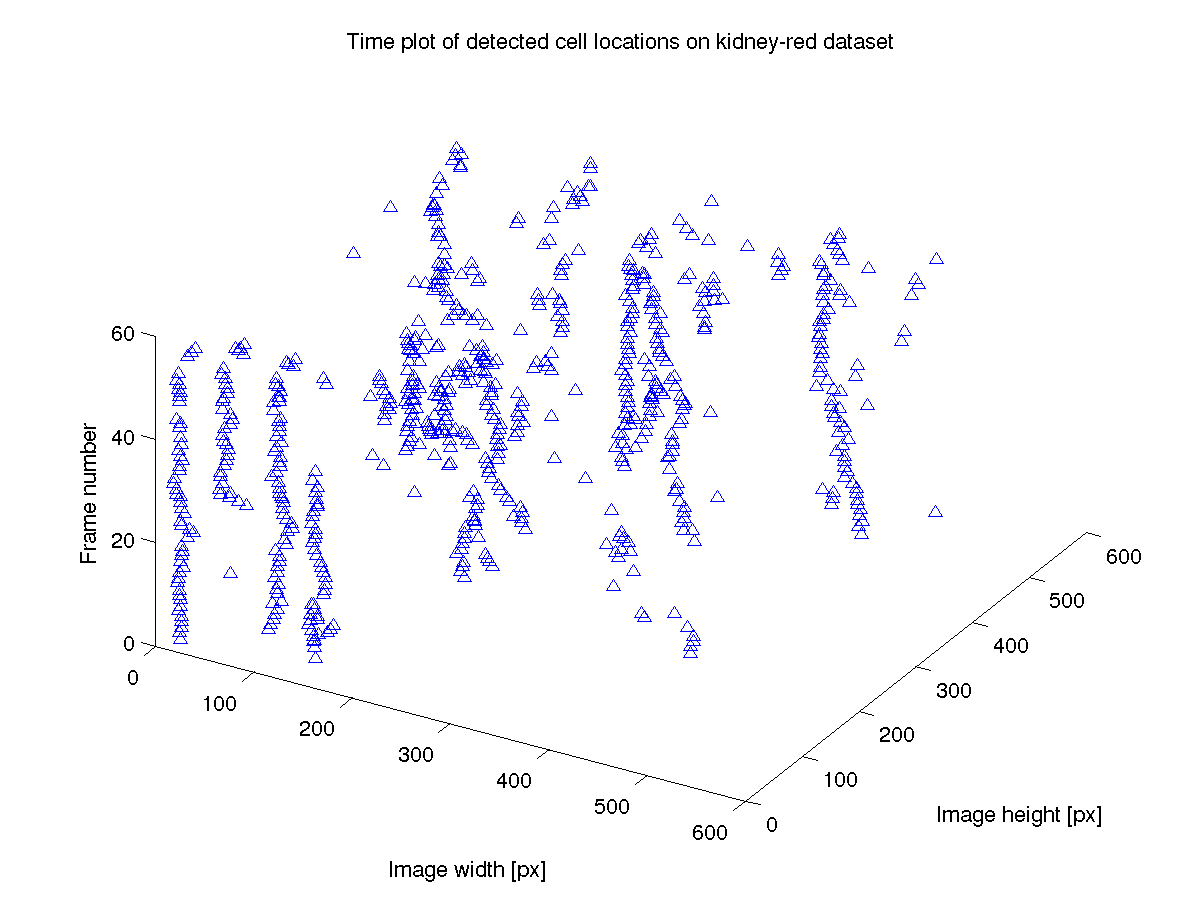
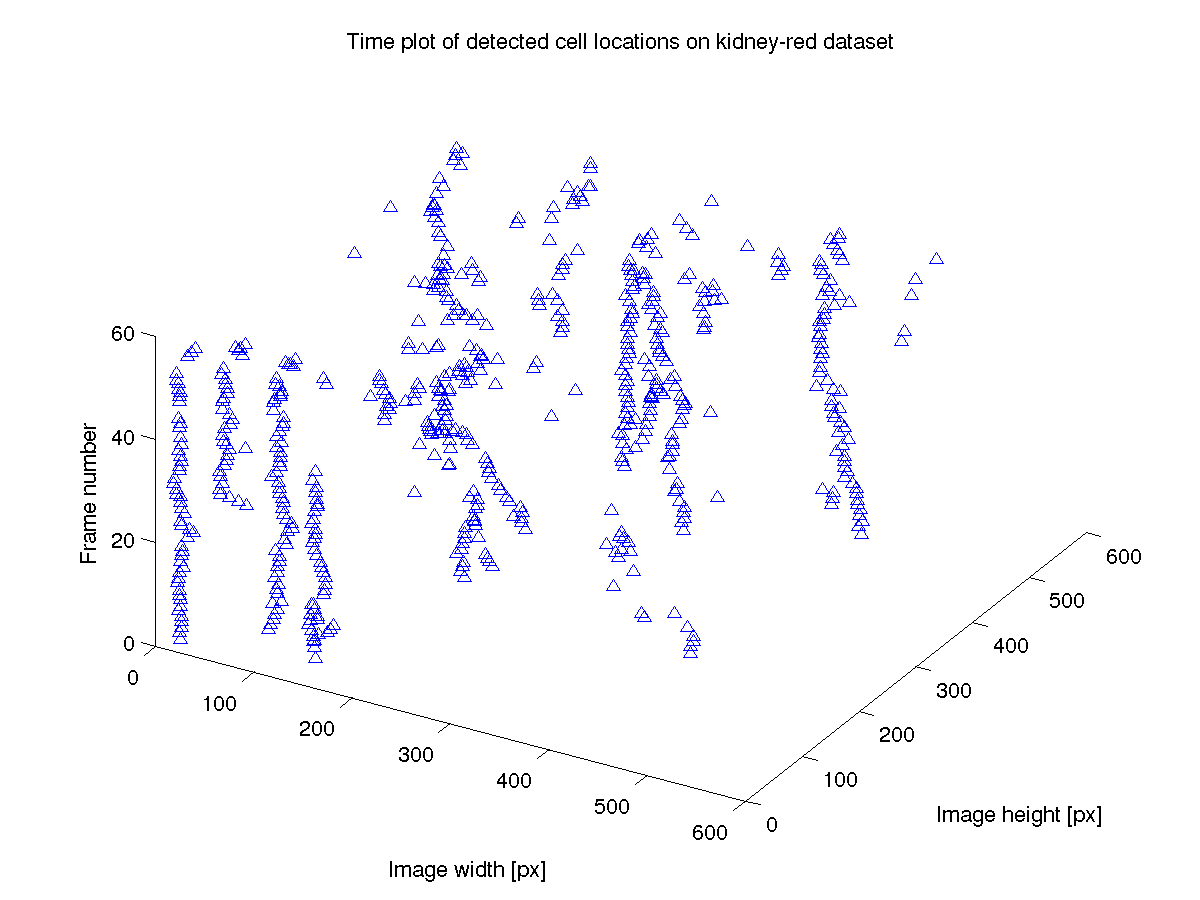
More robust plot sequence visualizer

diff --git a/cell_detector/featurePopularity.m b/cell_detector/featurePopularity.m
@@ -16,7 +16,7 @@ function feats = featurePopularity( outFolder, featureNames )
 %     - featurePopularity('kidney/outKidneyGreen');
 %     - featurePopularity('kidney/outKidneyGreen', {'area'...
 %                   'intensityHistogram' 'position' 'differenceHistogram'...
-%                   'shape''orientation' 'edges'});
+%                   'shape' 'orientation' 'edges'});
 % Example output:
 %                            timeScore    recallScore    precisionScore    totalScore    rank
 %                            _________    ___________    ______________    __________    ____

diff --git a/cell_detector/demo.m b/cell_detector/demo.m
@@ -24,8 +24,8 @@ end
 %Choose parameters for the training/testing
 datasetTrain = 9;%Identifier of the training data as set in loadDatasetInfo
 datasetTest = 10;%Identifier of the testing data as set in loadDatasetInfo
-train = 1;%---->Do train
-test = 1;%----->Do test
+train = 0;%---->Do train
+test = 0;%----->Do test
 
 inspectResults = 0; %1: Shows detected cells. 
 %2:A view on the results: MSERs found and selected

diff --git a/cell_detector/plotDotsSequence.m b/cell_detector/plotDotsSequence.m
@@ -11,8 +11,12 @@ function plotDotsSequence( directory )
     i = 1;
     for f=files'
         fullname = fullfile(directory, f.name);
-        load(fullname);
-        dotsSequence{i} = dots;
+        data = load(fullname);
+        if isfield(data, 'dots')
+            dotsSequence{i} = data.dots;
+        else
+            dotsSequence{i} = data.gl;
+        end
         i = i + 1;
     end
 
